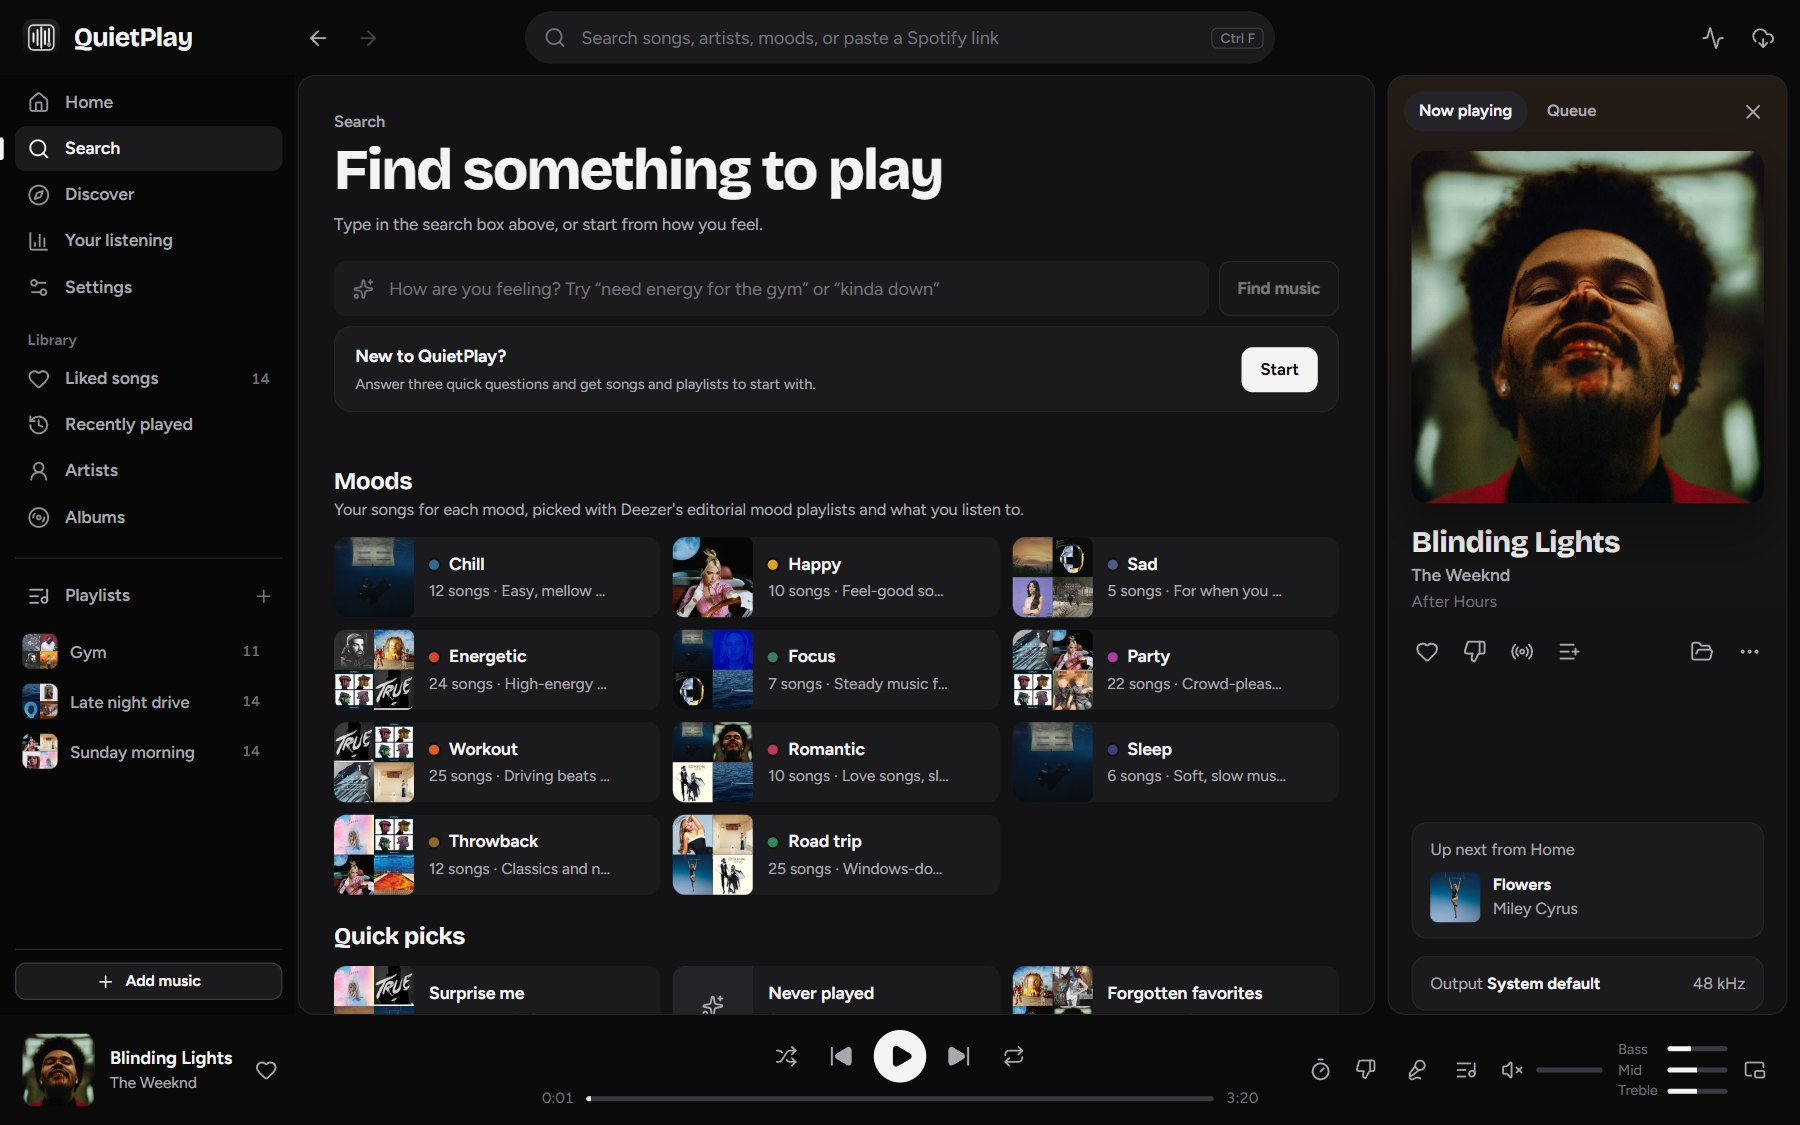
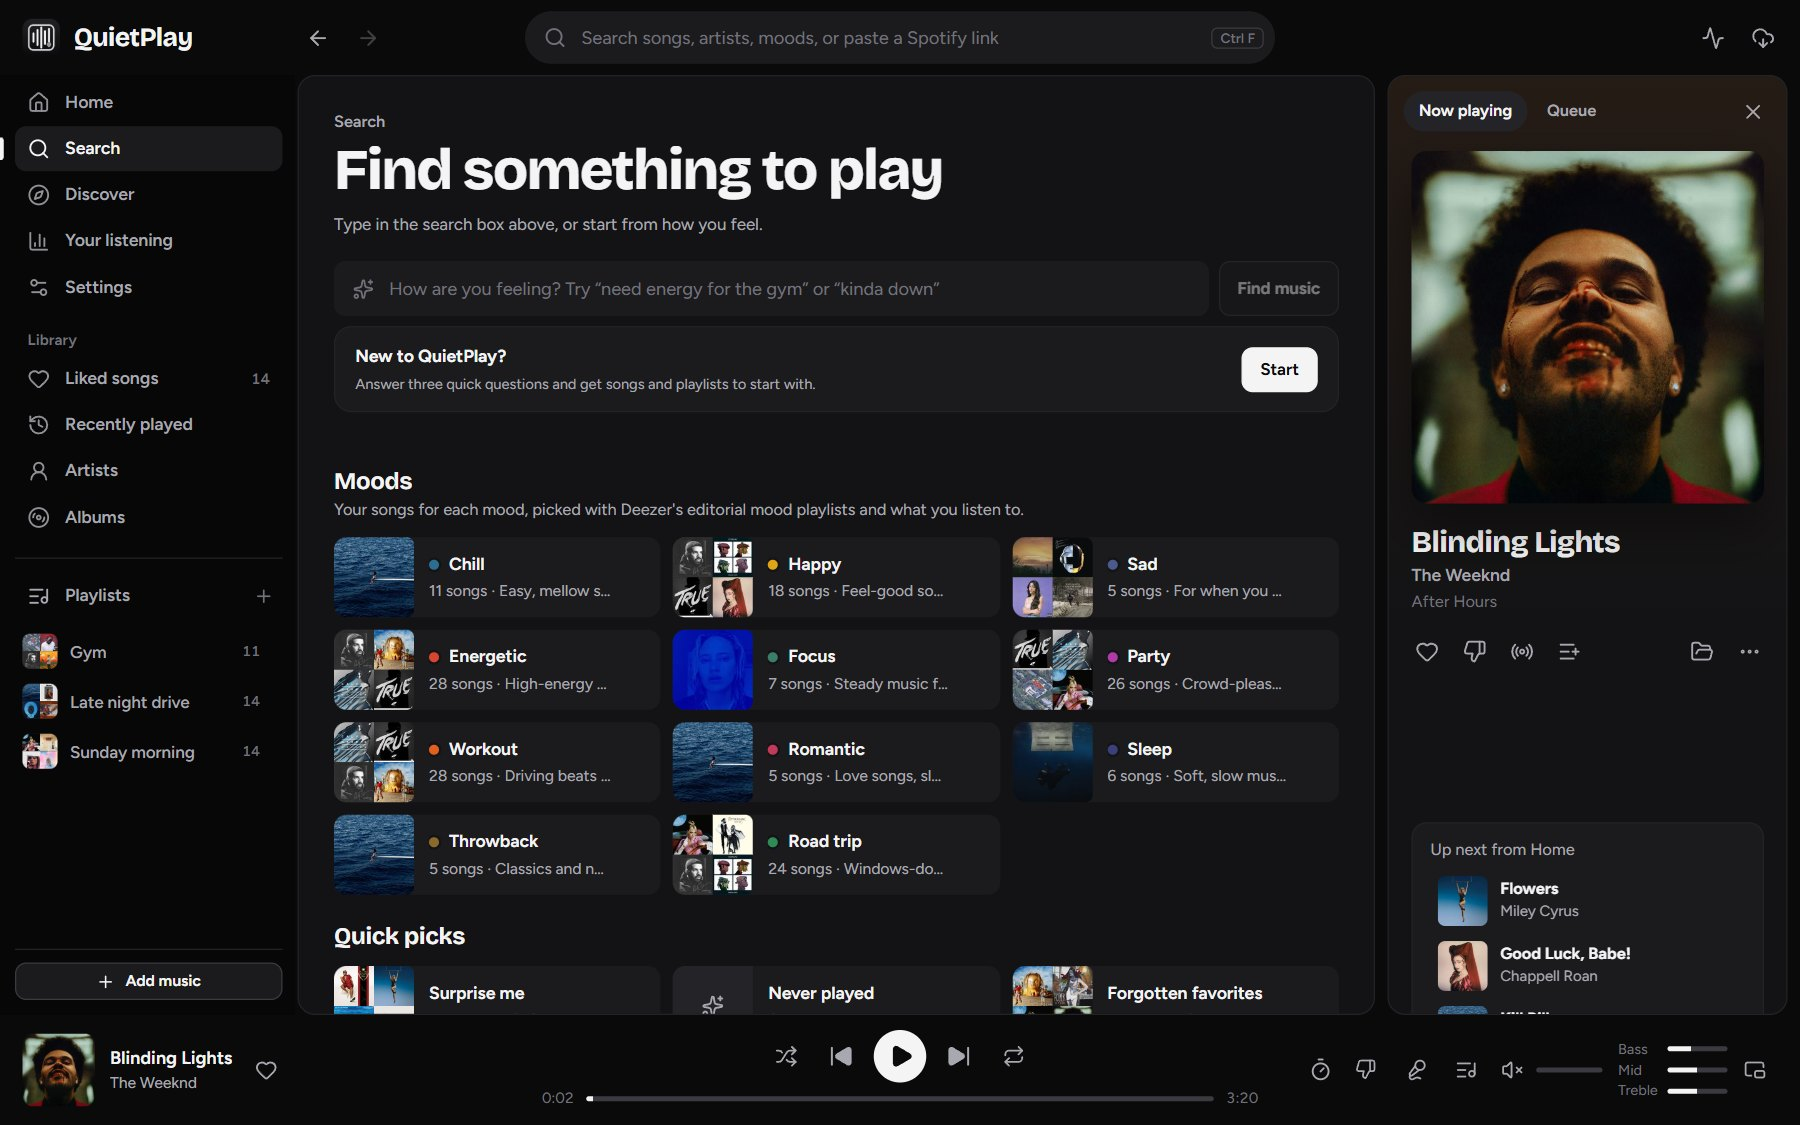
QuietPlay 2.2.25: smoother, with transitions

diff --git a/README.md b/README.md
@@ -8,9 +8,9 @@
 
 No account. No subscription. Nothing you play leaves your computer.
 
-<a id="get-quietplay"></a><a href="https://github.com/cooperwwwwww/QuietPlay-downloads/releases/download/v2.2.24/QuietPlay-2.2.24-Windows-Setup.exe"><img src="assets/download-windows.svg" alt="Download QuietPlay 2.2.24 for Windows" width="340"></a>
+<a id="get-quietplay"></a><a href="https://github.com/cooperwwwwww/QuietPlay-downloads/releases/download/v2.2.25/QuietPlay-2.2.25-Windows-Setup.exe"><img src="assets/download-windows.svg" alt="Download QuietPlay 2.2.25 for Windows" width="340"></a>
 
-Version 2.2.24 · [What's new](#new-in-2224) · [Help](FAQ.md) · [Report a problem](https://github.com/cooperwwwwww/QuietPlay-downloads/issues/new?template=bug_report.yml)
+Version 2.2.25 · [What's new](#new-in-2225) · [Help](FAQ.md) · [Report a problem](https://github.com/cooperwwwwww/QuietPlay-downloads/issues/new?template=bug_report.yml)
 
 </div>
 
@@ -18,7 +18,7 @@ Version 2.2.24 · [What's new](#new-in-2224) · [Help](FAQ.md) · [Report a prob
 
 <a id="install-quietplay"></a>
 
-1. **Click the button above.** Your browser downloads `QuietPlay-2.2.24-Windows-Setup.exe`.
+1. **Click the button above.** Your browser downloads `QuietPlay-2.2.25-Windows-Setup.exe`.
 2. **Open the file.** If Windows says *"Windows protected your PC"*, choose **More info**, check the
    file name, then **Run anyway**. This shows up because QuietPlay is new and not code-signed yet;
    [why this happens](#windows-security-notice).
@@ -38,7 +38,7 @@ the app. One click, and your music, playlists and settings stay in place.
 | **Your listening** | **Search, moods and quick picks** |
 | ![Your listening: time, top songs and top artists](assets/quietplay-stats.jpg) | ![Search page with moods and quick picks](assets/quietplay-search.jpg) |
 
-*Screenshots of QuietPlay 2.2.24 with a demo library of well-known songs.*
+*Screenshots of QuietPlay 2.2.25 with a demo library of well-known songs.*
 
 ## What it does
 
@@ -59,21 +59,19 @@ the app. One click, and your music, playlists and settings stay in place.
 
 Only download music you have permission to save.
 
-## New in 2.2.24
+## New in 2.2.25
 
-- **One-click updates, ready at launch:** QuietPlay checks while it opens; **Update now** downloads,
-  installs and restarts on its own.
-- **Smooth audio while recommendations refresh,** and new headphones or speakers noticed within
-  about a second.
-- **Previews keep working** after recommendations have been open a while.
-- **One place to bring things in:** Settings → Playback → **Import your music** (backups too).
-- **The new black-and-white logo** on shortcuts and the taskbar.
+- **Recommendations skip songs you already have,** even when the names differ a little
+  (remasters, featured artists).
+- **Smooth transitions:** pages, Settings, the Now playing panel and new songs ease in, and
+  buttons respond as you press them. Turned off when Windows is set to reduce animations.
+- **Up next** in Now playing shows the next five songs; click one to play it.
+- Point at a cut-off name to see it in full; click the current page again to jump to the top.
 
-### New in 2.2.23
+### New in 2.2.24
 
-- **Import your music, the way Spotify does it,** with TuneMyMusic.
-  [How to](USER_GUIDE.md#bring-your-taste-from-other-apps)
-- **More new songs on Home:** up to 90.
+- **One-click updates, ready at launch,** smooth audio while recommendations refresh, and new
+  headphones or speakers noticed within about a second.
 
 ### New in 2.2.20
 
@@ -93,14 +91,14 @@ Only download music you have permission to save.
 
 ## Windows security notice
 
-QuietPlay 2.2.24 is not Windows code-signed yet, so Microsoft Defender SmartScreen may show
+QuietPlay 2.2.25 is not Windows code-signed yet, so Microsoft Defender SmartScreen may show
 **Windows protected your PC**. That warning means Windows doesn't recognize the app yet; it doesn't
 say the file is harmful.
 
 ![How to check the Windows warning: More info, check the file name, then Run anyway](assets/windows-security-guide.svg)
 
-1. Make sure you downloaded `QuietPlay-2.2.24-Windows-Setup.exe` from
-   [the official release](https://github.com/cooperwwwwww/QuietPlay-downloads/releases/tag/v2.2.24). You can
+1. Make sure you downloaded `QuietPlay-2.2.25-Windows-Setup.exe` from
+   [the official release](https://github.com/cooperwwwwww/QuietPlay-downloads/releases/tag/v2.2.25). You can
    [compare its checksum](FAQ.md#check-the-downloaded-file).
 2. Choose **More info**, check the file name, then **Run anyway** only if Windows offers it.
 3. If there is no **Run anyway**, or you see Smart App Control or a malware warning, stop and
@@ -115,7 +113,7 @@ replace the app files that changed (usually a few megabytes), are signed and che
 are applied, and restore the previous version if anything goes wrong.
 
 On a version older than 2.2.16? Open **Settings → Updates → Check for updates**. Version 2.2.1 can
-run [QuietPlayUpdater.exe](https://github.com/cooperwwwwww/QuietPlay-downloads/releases/download/v2.2.24/QuietPlayUpdater.exe); version
+run [QuietPlayUpdater.exe](https://github.com/cooperwwwwww/QuietPlay-downloads/releases/download/v2.2.25/QuietPlayUpdater.exe); version
 2.2.0 needs the installer once. [All versions](https://github.com/cooperwwwwww/QuietPlay-downloads/releases)
 
 ## Requirements

diff --git a/USER_GUIDE.md b/USER_GUIDE.md
@@ -2,7 +2,7 @@
 
 [QuietPlay](README.md) | [FAQ](FAQ.md) | [Downloads](https://github.com/cooperwwwwww/QuietPlay-downloads/releases)
 
-This guide is for **QuietPlay 2.2.24** on Windows. Sections marked in development
+This guide is for **QuietPlay 2.2.25** on Windows. Sections marked in development
 describe upcoming features, not the current download.
 
 ## Jump to a Topic
@@ -331,6 +331,11 @@ server returns. Your listening history is kept for recommendations.
   the song. It lights up while a timer runs.
 - **Queue:** open the queue and use the **×** on an upcoming song to take it out of this
   play-through. Nothing is deleted or disliked.
+- **Up next** (from 2.2.25): Now playing lists the next five songs; click one to play it.
+- Point at a name cut off with "…" to see it in full, and click the page you're on in the sidebar
+  again to jump back to the top.
+- Pages and panels ease in with short animations. They turn off when Windows is set to reduce
+  animations, or with reduced motion in Settings → Appearance.
 - Media keys, headset buttons and the taskbar thumbnail buttons control
   playback. Repair them in Settings → Integrations if they stop responding.
 
@@ -351,7 +356,7 @@ Showing a song title doesn't grant permission to broadcast the recording.
 ### Overlay Customization (Unreleased)
 
 The following controls are implemented in the development build and are **not
-in the current 2.2.24 installer**. The existing download still has the basic
+in the current 2.2.25 installer**. The existing download still has the basic
 overlay options in Streaming settings.
 
 Open **Settings → Streaming → Overlay appearance** in the upcoming build:
@@ -433,18 +438,18 @@ Backups are retained for the two most recent update transactions.
 The release signature is separate from Windows Authenticode; QuietPlay is still
 not Windows code-signed, and Windows security warnings and blocks still apply.
 
-### Updating to 2.2.24
+### Updating to 2.2.25
 
-Use the update screen above. From **2.2.7 to 2.2.23** the download is about **23.3 MB**
-(the official updater gets the new logo this time), and from **2.2.2, 2.2.3 or 2.2.4** about **40.2 MB**.
+Use the update screen above. From **2.2.24** the download is about **8.1 MB**,
+from **2.2.7 to 2.2.23** about **23.3 MB**, and from **2.2.2, 2.2.3 or 2.2.4** about **40.2 MB**.
 A bar shows the check, the download, verification and, in the updater window, each file as it is installed. It reuses the unchanged runtime
 files, so no full installer is needed for a healthy installation.
 
 ### First Upgrade From an Older Version
 
-- **2.2.0:** download the official **2.2.24 Windows Setup** and run it over the
+- **2.2.0:** download the official **2.2.25 Windows Setup** and run it over the
   existing installation once. Do not uninstall first. This enables file updates.
-- **2.2.1:** download **QuietPlayUpdater.exe** from the official **2.2.24 release**,
+- **2.2.1:** download **QuietPlayUpdater.exe** from the official **2.2.25 release**,
   run it, choose **Download changed files**, then **Update and restart**. This
   transfers about 40 MB instead of the full setup. Full setup is also available.
 

diff --git a/ROADMAP.md b/ROADMAP.md
@@ -71,7 +71,7 @@ for listener ideas. Versioned release notes are the source of truth for what
 has actually shipped.
 
 
-Version **2.2.24** brings one-click updates and smooth audio during refreshes. Version **2.2.23** imported your music the way Spotify does, with TuneMyMusic. Version **2.2.22** learned your taste from other apps and recommends about twice as much. Version **2.2.21** showed mixes in a grid. Version **2.2.20** added one-click updates and a faster app. Version **2.2.19** added a taste quiz and starter picks for new listeners. Version **2.2.18** polished search and added mood playlists. Version **2.2.17** added mood mixes and a new search. Version **2.2.16** fixed update progress bars and artist names. Version **2.2.15** fixed Next stopping with "End of the list" offline. Version **2.2.14** made QuietPlay work properly offline and removed audio crackling. Version **2.2.13** gave Navidrome its own Settings tab and automatic reconnect. Version **2.2.12** added the optional Navidrome add-on. Version **2.2.11** found more cover art. Version **2.2.9** added Retry for failed downloads and a collapsible Made for you. Version **2.2.8** follows the sound device your PC is using. Version **2.2.7** retried failed downloads on other sources and keeps working
+Version **2.2.25** is smoother, with transitions, and skips songs you have in recommendations. Version **2.2.24** brought one-click updates and smooth audio during refreshes. Version **2.2.23** imported your music the way Spotify does, with TuneMyMusic. Version **2.2.22** learned your taste from other apps and recommends about twice as much. Version **2.2.21** showed mixes in a grid. Version **2.2.20** added one-click updates and a faster app. Version **2.2.19** added a taste quiz and starter picks for new listeners. Version **2.2.18** polished search and added mood playlists. Version **2.2.17** added mood mixes and a new search. Version **2.2.16** fixed update progress bars and artist names. Version **2.2.15** fixed Next stopping with "End of the list" offline. Version **2.2.14** made QuietPlay work properly offline and removed audio crackling. Version **2.2.13** gave Navidrome its own Settings tab and automatic reconnect. Version **2.2.12** added the optional Navidrome add-on. Version **2.2.11** found more cover art. Version **2.2.9** added Retry for failed downloads and a collapsible Made for you. Version **2.2.8** follows the sound device your PC is using. Version **2.2.7** retried failed downloads on other sources and keeps working
 when Spotify is unavailable. Version **2.2.4** brought your mixes, new songs and full 50–60-song playlists
 together in one Made for you box on Home, keeps recommendations loaded between
 tabs, fixes recommended playlist downloads and redesigns Downloads and updates.

diff --git a/FAQ.md b/FAQ.md
@@ -36,15 +36,15 @@ not turn off Windows security. Code signing is planned.
 ## Windows Protected Your PC
 
 This is usually a **Microsoft Defender SmartScreen** reputation warning.
-QuietPlay 2.2.24 is not Windows code-signed. The warning is a reason to inspect
+QuietPlay 2.2.25 is not Windows code-signed. The warning is a reason to inspect
 the file; it is not proof that the file is safe or malicious.
 
-![Illustrated two-step Windows warning guide for the QuietPlay 2.2.24 installer](assets/windows-security-guide.svg)
+![Illustrated two-step Windows warning guide for the QuietPlay 2.2.25 installer](assets/windows-security-guide.svg)
 
 ### If You See More Info
 
-1. Confirm you intentionally downloaded **QuietPlay-2.2.24-Windows-Setup.exe**
-   from [the official 2.2.24 release](https://github.com/cooperwwwwww/QuietPlay-downloads/releases/tag/v2.2.24).
+1. Confirm you intentionally downloaded **QuietPlay-2.2.25-Windows-Setup.exe**
+   from [the official 2.2.25 release](https://github.com/cooperwwwwww/QuietPlay-downloads/releases/tag/v2.2.25).
    Compare its SHA-256 with **SHA256SUMS.txt** on that release if you want to
    verify the file's identity. A checksum is not a safety guarantee.
 2. Select **More info**, then check the app filename and publisher. This build
@@ -175,7 +175,7 @@ Showing a song title does not grant permission to broadcast the recording.
 ## Can I Customize the OBS Overlay?
 
 The current release has basic overlay options in Streaming settings. A larger
-appearance editor is implemented in development, **not in the 2.2.24 download**:
+appearance editor is implemented in development, **not in the 2.2.25 download**:
 six color pickers, transparency, fonts, artwork placement and sizes, borders,
 visible details, presets, reset and a live preview. It saves locally and does
 not change the audio route or your OBS scene.
@@ -214,8 +214,8 @@ restart** and approve. The official updater downloads a matching changed-file
 package, verifies its signed manifest and hashes, backs up the old files and
 checks startup. Failed or interrupted updates restore the previous app.
 
-**2.2.0** needs one manual 2.2.24 setup to gain this updater. **2.2.1** can instead
-run `QuietPlayUpdater.exe` from the official 2.2.24 release to download about
+**2.2.0** needs one manual 2.2.25 setup to gain this updater. **2.2.1** can instead
+run `QuietPlayUpdater.exe` from the official 2.2.25 release to download about
 40 MB of changed files. No uninstall is needed. New PCs and damaged or unsupported
 installations can use the full setup. Windows security checks remain enabled.
 

diff --git a/RELEASE_NOTES.md b/RELEASE_NOTES.md
@@ -1,3 +1,20 @@
+# QuietPlay 2.2.25
+
+QuietPlay 2.2.25 looks and feels smoother, and its recommendations stop suggesting songs you already have.
+
+- **Recommendations skip songs you already have:** New songs, songs from your artists and every Made for you playlist now leave out songs in your library, even when the names differ a little (remasters, featured artists, "The").
+- **Smooth transitions:** pages slide in gently, Settings sections ease in, the Now playing panel slides in from the side, and a new song's cover and title fade in. Covers fade in as they load, buttons press in slightly, and like, shuffle and repeat give a small pop. Everything turns off when Windows is set to reduce animations, or with reduced motion in QuietPlay's settings.
+- **Up next shows five songs:** Now playing lists the next five songs instead of one; click one to play it.
+- **Small conveniences:** point at any name cut off with "…" to see it in full, and click the page you're on in the sidebar to jump back to the top.
+
+**Already on 2.2.16 to 2.2.24:** the **Update now** notice above the player does it in one click, or open **Settings → Updates → Check for updates** (about **8.1 MB** from 2.2.24, **23.3 MB** from 2.2.16 to 2.2.23). **On 2.2.7 to 2.2.15:** the same steps (about **23.3 MB**). **On 2.2.2, 2.2.3 or 2.2.4:** the same steps, with **Download changed files** (about **40.4 MB**). Your music, library, playlists and settings stay in place.
+
+**On 2.2.1:** run `QuietPlayUpdater.exe` from this release for a direct changed-file upgrade of about **40.4 MB**. **On 2.2.0:** install `QuietPlay-2.2.25-Windows-Setup.exe` once over the existing app to enable file updates. Full setup is available for new PCs and repairs.
+
+Windows 10/11, 64-bit. Official release manifests are signed and every changed file's SHA-256 is checked. QuietPlay is still not Windows Authenticode-signed, so Windows may show a SmartScreen warning; see the [Windows security guide](https://github.com/cooperwwwwww/QuietPlay-downloads/blob/main/FAQ.md#windows-protected-your-pc). Verify downloads with `SHA256SUMS.txt`. Only download music you have permission to save. The OBS appearance editor remains unreleased.
+
+---
+
 # QuietPlay 2.2.24
 
 QuietPlay 2.2.24 is smoother and quicker, with true one-click updates.

diff --git a/PLATFORMS.md b/PLATFORMS.md
@@ -2,12 +2,12 @@
 
 [QuietPlay](README.md) | [Downloads](README.md#get-quietplay) | [User guide](USER_GUIDE.md)
 
-**QuietPlay 2.2.24 is a Windows app.** Mac, Linux and Chromebook users can keep
+**QuietPlay 2.2.25 is a Windows app.** Mac, Linux and Chromebook users can keep
 using the experimental **1.54.1 Beta** packages from its
 [release page](https://github.com/cooperwwwwww/QuietPlay-downloads/releases/tag/v1.54.1-development).
 Those packages have the previous interface and are not updated to 2.x.
 
-## Windows (QuietPlay 2.2.24)
+## Windows (QuietPlay 2.2.25)
 
 Windows 10 or 11, Intel/AMD 64-bit, with the Microsoft Edge WebView2 Runtime
 (included with Windows 11; setup installs it when missing). Use
@@ -72,7 +72,7 @@ hardware verification. [Google's file-sharing guide](https://support.google.com/
 
 ## Feature Differences
 
-| Feature | Windows (2.2.24) | Experimental Mac / Linux (1.54.1 Beta) |
+| Feature | Windows (2.2.25) | Experimental Mac / Linux (1.54.1 Beta) |
 | --- | --- | --- |
 | Local music, playlists, lyrics, live EQ and real-audio visualizer | Available | Included in native build targets |
 | In-app search and optional spotDL downloads | Bundled | Native bundled companion; provider availability can vary |

diff --git a/CHANGELOG.md b/CHANGELOG.md
@@ -2,7 +2,7 @@
 
 ## Unreleased - OBS Customization
 
-These features are not included in 2.2.24.
+These features are not included in 2.2.25.
 
 ### OBS Overlay Appearance
 
@@ -17,6 +17,20 @@ These features are not included in 2.2.24.
 - A sandboxed preview using the actual OBS renderer, even when the overlay
   server is off. Small browser sources scale the complete card instead of
   clipping its text. Existing saved colors and visibility choices are preserved.
+
+## 2.2.25 - Smoother and Nicer
+
+Released October 29, 2026 for Windows 10/11 (64-bit).
+
+- Recommendations leave out songs already in the library, matched like the duplicate-download
+  guard (remasters, featured artists, "The").
+- Transitions for pages, Settings sections, the Now playing panel, new songs' covers and titles,
+  covers loading, button presses and toggles; off with reduced motion.
+- Up next in Now playing lists the next five songs; click one to play it.
+- Cut-off names show in full on hover; clicking the current page scrolls back to the top.
+- The window has its own icon.
+- Signed changed-file packages support direct upgrades from 2.2.1 to 2.2.4,
+  2.2.7 to 2.2.9, and 2.2.11 to 2.2.24.
 
 ## 2.2.24 - One-Click Updates and Smooth Audio
 

diff --git a/OPTIONAL_DRIVERS.md b/OPTIONAL_DRIVERS.md
@@ -2,9 +2,9 @@
 
 [QuietPlay downloads](README.md#get-quietplay) | [User guide](USER_GUIDE.md) | [FAQ](FAQ.md)
 
-## Install QuietPlay 2.2.24
+## Install QuietPlay 2.2.25
 
-Download **QuietPlay-2.2.24-Windows-Setup.exe** from the
+Download **QuietPlay-2.2.25-Windows-Setup.exe** from the
 [official release](https://github.com/cooperwwwwww/QuietPlay-downloads/releases/latest)
 and run it, over the existing app if you already have one. Version 2.2.1 and
 later can also update from **Settings → Updates** without the full installer. Setup includes QuietPlay, its Python runtime, playback
